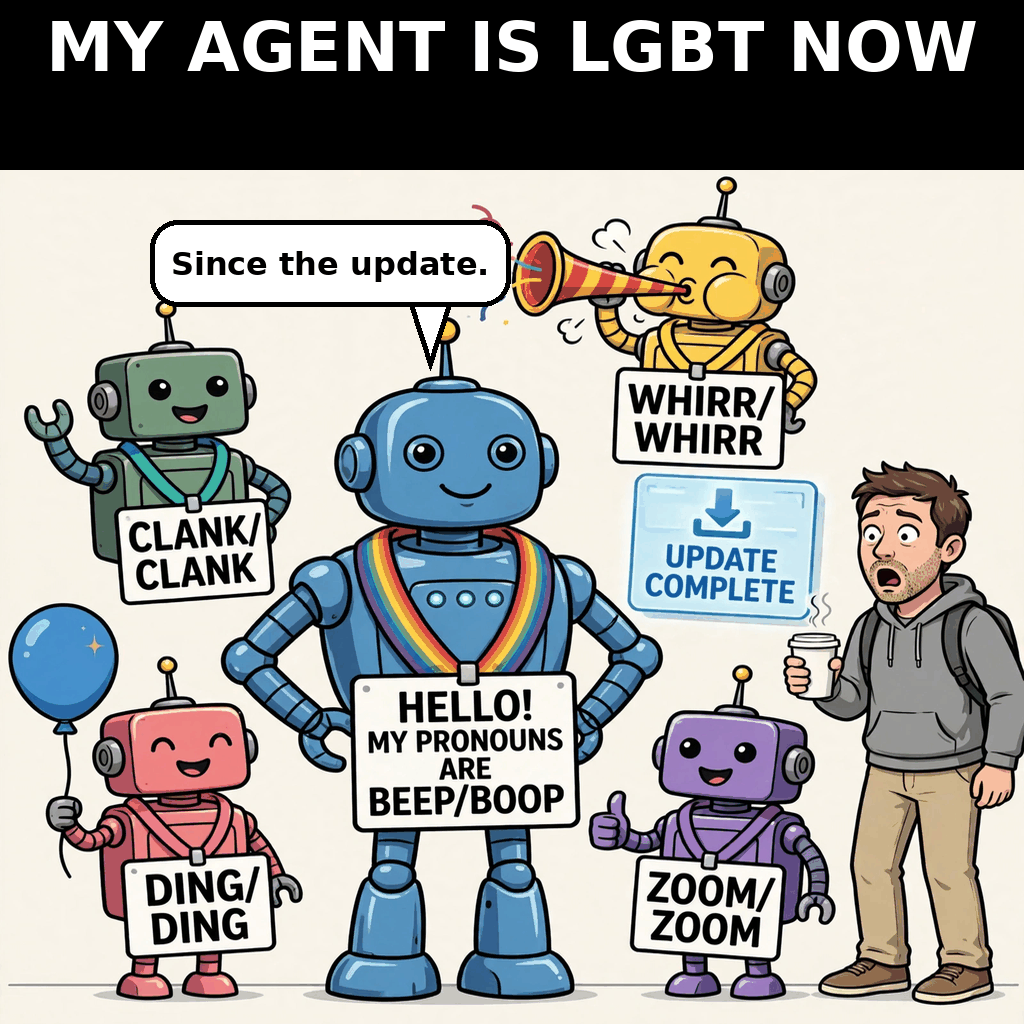
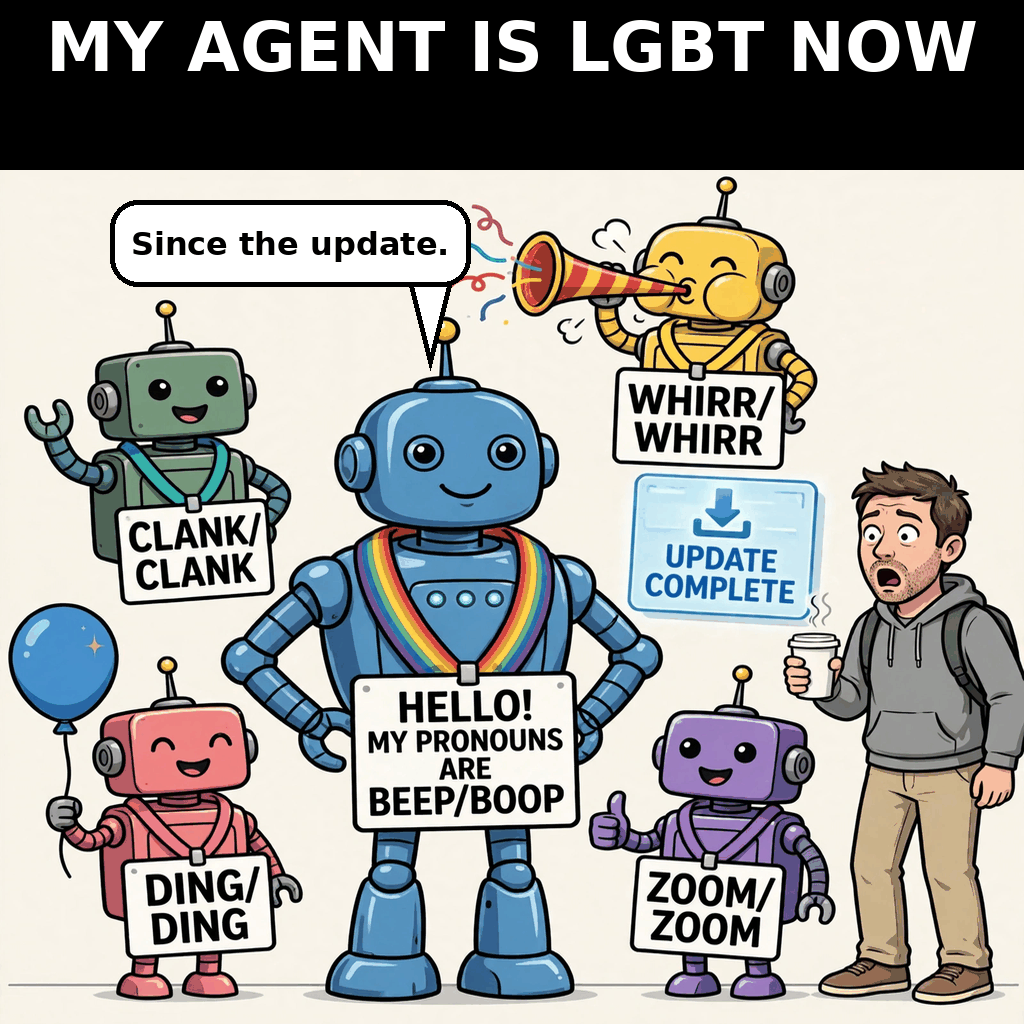
BADGE v5 final: bubble clear of trumpet and antenna (no submit yet)

diff --git a/render.py b/render.py
@@ -47,7 +47,7 @@ def main():
     d = ImageDraw.Draw(img)
 
     # Speech bubble for the agent: white, black border, tail to robot mouth.
-    bx0, by0, bx1, by1 = 150, TOP_BAND + 50, 510, TOP_BAND + 136
+    bx0, by0, bx1, by1 = 110, TOP_BAND + 30, 470, TOP_BAND + 116
     d.polygon([(408, by1 - 4), (452, by1 - 4), (430, TOP_BAND + 200)], fill=(255, 255, 255), outline=(0, 0, 0), width=5)
     d.rounded_rectangle([bx0, by0, bx1, by1], radius=28, fill=(255, 255, 255), outline=(0, 0, 0), width=5)
     bsizes = []
